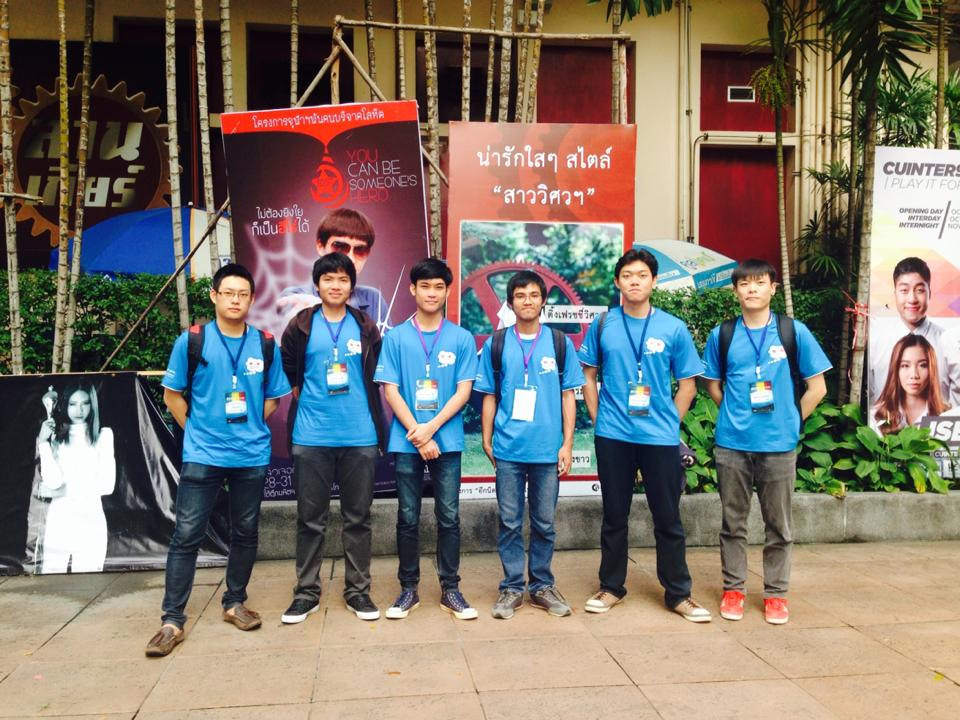
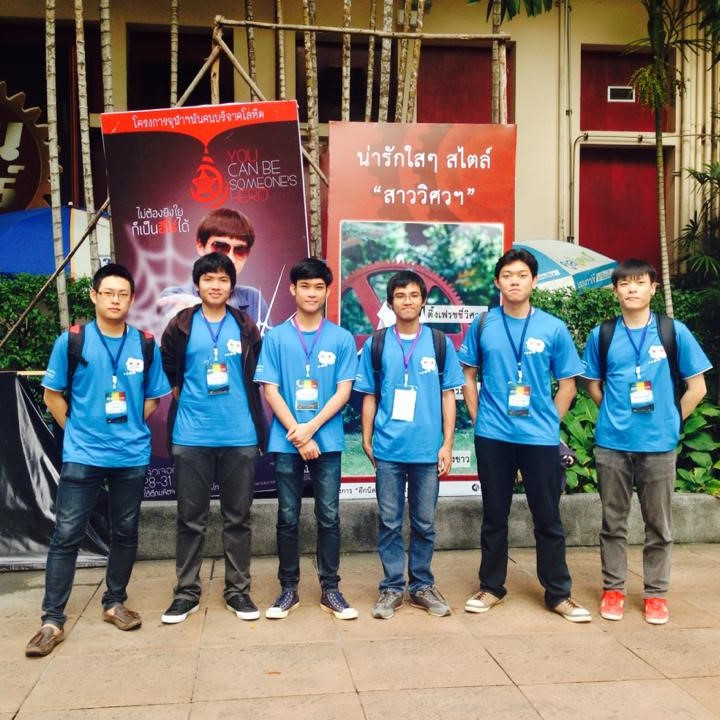
edit image size

diff --git a/index.html b/index.html
@@ -27,9 +27,9 @@
         </div>
         <div class="collapse navbar-collapse" id="myNavbar">
             <ul class="nav navbar-nav navbar-right">
-                <li><a href="#">WORKS</a></li>
-                <li><a href="#">COMPETITION</a></li>
-                <li><a href="#">EDUCATION</a></li>
+                <li><a href="#works">WORKS</a></li>
+                <li><a href="#competition">COMPETITION</a></li>
+                <li><a href="#education">EDUCATION</a></li>
             </ul>
         </div>
     </div>
@@ -46,8 +46,8 @@
     </div>
 </div>
 
-<div class="container-fluid bg-2 text-center" style="padding-right: 5px;padding-left: 5px">
-    <h1>MY WORKS</h1>
+<div id="works" class="container-fluid bg-2 text-center" style="padding-right: 5px;padding-left: 5px">
+    <h1>WORKS</h1>
     <br>
     <br>
     <div id="row" class="col-md-12" style="margin-left: 0;margin-right: 0;padding: 0">
@@ -68,10 +68,10 @@
     </div>
     <br>
     <br>
-    <p>For more works visit my <a href="https://github.com/MigMikael">github ></a></p>
+    <h4>For more works visit my <a href="https://github.com/MigMikael">github ></a></h4>
 </div>
 
-<div class="container-fluid bg-3 text-center">
+<div id="competition" class="container-fluid bg-3 text-center">
     <h1 class="margin">COMPETITION</h1>
     <div class="col-md-12">
         <div class="col-md-6 text-left">
@@ -106,6 +106,10 @@
                     <li data-target="#myCarousel" data-slide-to="0" class="active"></li>
                     <li data-target="#myCarousel" data-slide-to="1"></li>
                     <li data-target="#myCarousel" data-slide-to="2"></li>
+                    <li data-target="#myCarousel" data-slide-to="3"></li>
+                    <li data-target="#myCarousel" data-slide-to="4"></li>
+                    <li data-target="#myCarousel" data-slide-to="5"></li>
+                    <li data-target="#myCarousel" data-slide-to="6"></li>
                 </ol>
 
                 <!-- Wrapper for slides -->
@@ -153,7 +157,7 @@
     </div>
 </div>
 
-<div class="container-fluid bg-2 text-center">
+<div id="education" class="container-fluid bg-2 text-center">
     <h1 class="margin">EDUCATION</h1><br>
     <div class="col-md-8 text-left">
         <ul class="compet-list">
